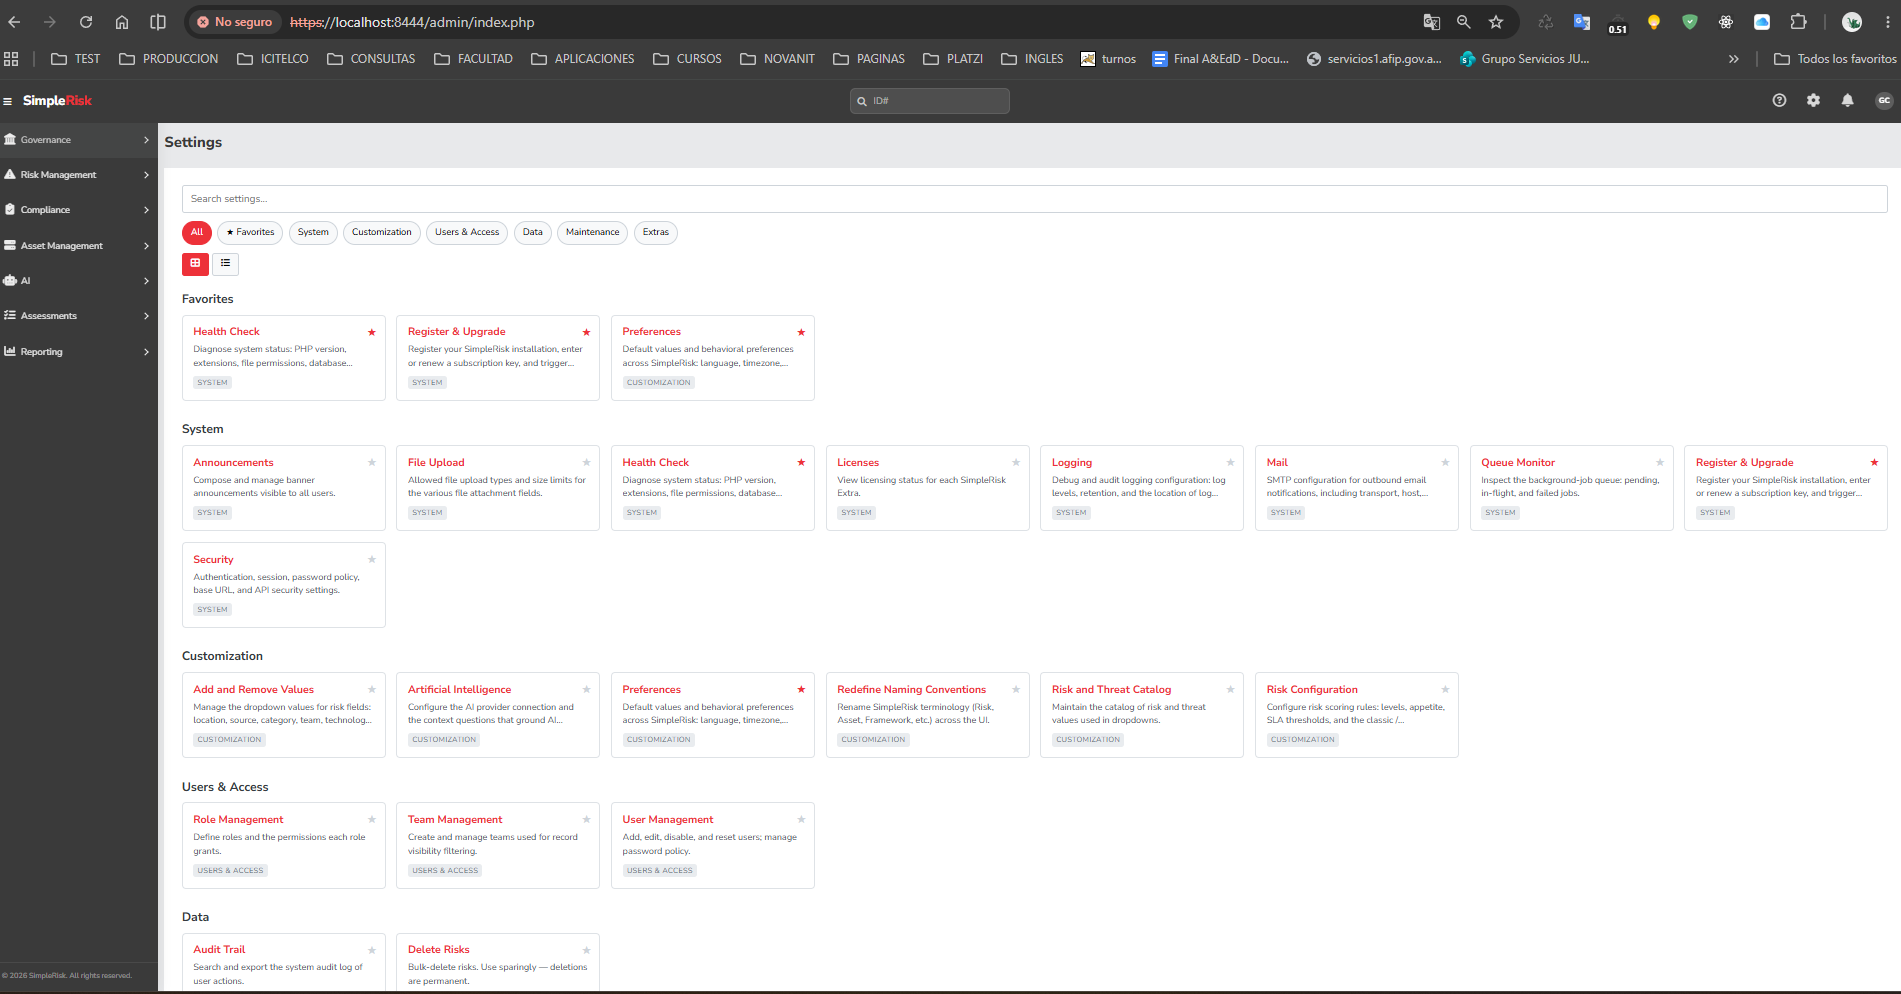
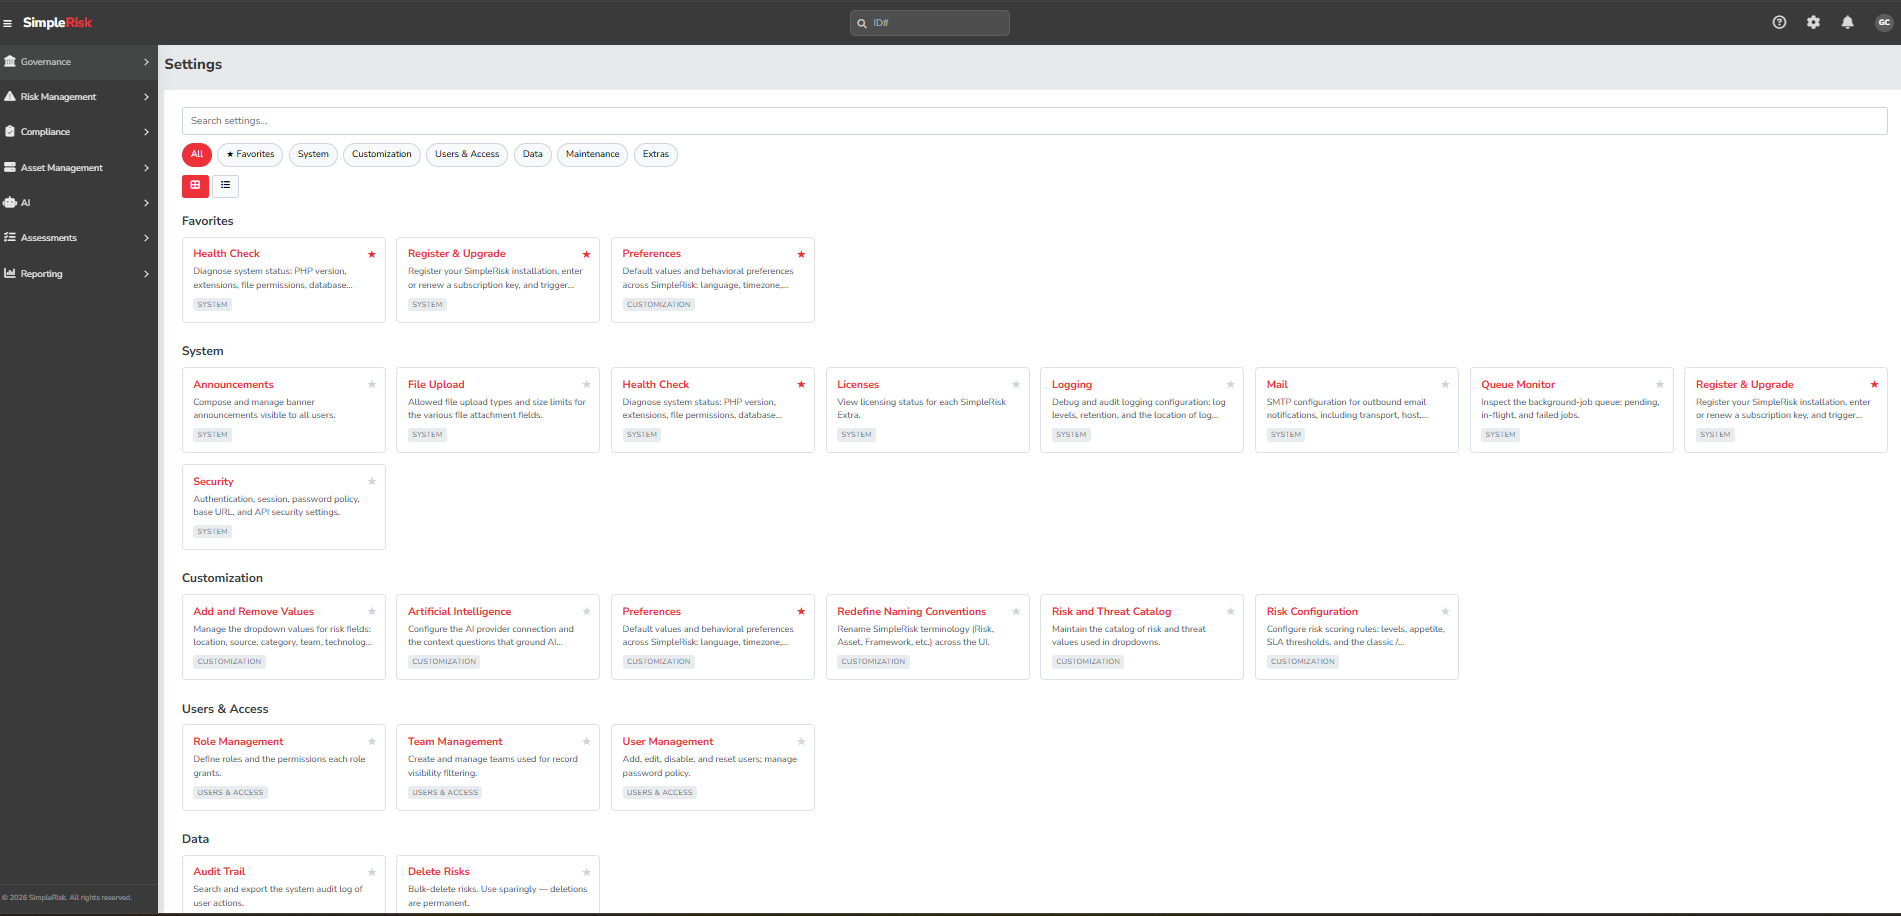
recorta barra de marcadores en captura de settings y agrega evidencia de D3

diff --git a/entregas/carbajal-gonzalo-31376904/informe/informe.md b/entregas/carbajal-gonzalo-31376904/informe/informe.md
@@ -217,8 +217,7 @@ Ver tabla completa en `configuracion/riesgos.md`. Resumen:
 
 ![Panel de Settings de SimpleRisk, con Role/Team/User Management en "Users & Access"](capturas/settings-roles.png)
 
-> Nota: se recorta la barra de marcadores del navegador en capturas futuras — en esta
-> quedó visible por error y no debería mostrar contenido personal/laboral ajeno al TP.
+![Plan Mitigation: R01, R02 y R06 ya no figuran como pendientes de planificar mitigación, evidencia de que seed_action_plans.sql se aplicó correctamente](capturas/plan-mitigation-evidencia-d3.png)
 
 ### Nota metodológica: score de SimpleRisk vs. matriz de justificación propia
 
